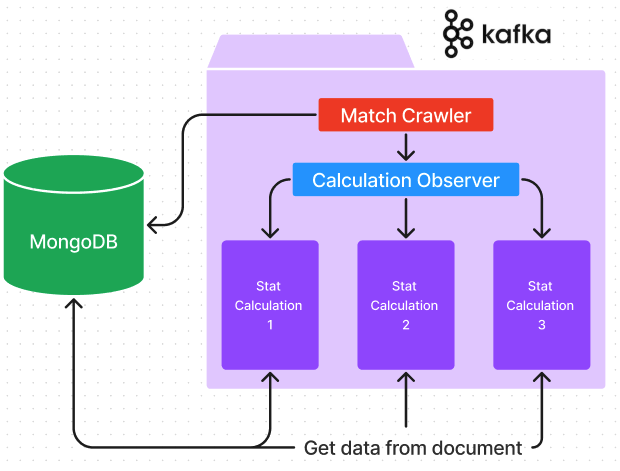
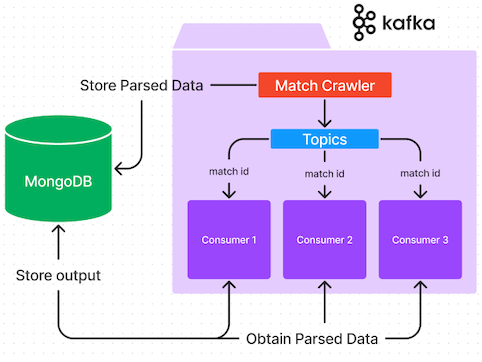
added Backend Post

Changed region(s): [[0.0, 0.0, 0.9959, 0.9724]]

diff --git a/content/blog/code/backend.md b/content/blog/code/backend.md
@@ -1,7 +1,7 @@
 ---
-title: "Backend Construction"
-date: 2023-08-23
-draft: true
+title: "Backend System Design"
+date: 2023-08-29
+draft: false
 github_link: "https://github.com/Halfgear"
 author: "HwiJoon Lee"
 tags:
@@ -9,6 +9,66 @@ tags:
   - Postgresql
   - MongoDB
   - NestJS
-image: /posts/League/valorant.jpeg
+image: /posts/Dev/backend.png
 toc:
 ---
+Building the backend infrastructure for our Valorant data-driven website, I encountered several unique challenges and oppurtunities to grow as a software developer. In this post, I'll outline our current implementations and the ongoing developments for our backend system design. 
+
+## Pipeline with Kafka
+
+In our quest to build an advanced and reliable infrastructure, Kafka became a cornerstone of our design. The integration effectively separates our crawler from our statistical calculation components, aiming for a system that remains robust, especially when it faces potential computational challenges.
+
+![MongoDB](/posts/Dev/MongoStruct.png)
+
+[***Our match crawler system***](https://jooncode.com/blog/code/crawler/) extracts Valorant game data, which undergoes a multiple parsing mechanism to reduce document size. This parsed data is stored in MongoDB. When a match is stored, a Kafka producer dispatches these match details to a designated topics.
+    
+### Data Processing
+![MongoDB](/posts/Dev/dataProcessing.png)
+
+Kafka consumers retrieve match id from the topic and initiate necessary calculations with the parsed data in our database. Some calculations might be straightforward and quick, while others could demand more computation.
+
+### Balancing Workloads
+![MongoDB](/posts/Dev/balance.jpeg)
+
+Kafka's design allows for flexibility in managing computational demands. If a consumer faces a heavier workload, we can easily introduce additional consumers to that consumer group. This adaptive scaling ensures a more evenly distributed processing speed to optimize our system's efficiency. Additionally, we will be able to leverage consumer offsets to check the overall computing progresses. If there's a noticeable gaps in offsets between consumers, they indicate the potential processing bottlenecks to be addressed.
+
+### Parallelism & Scalability
+Kafka, by design, is the best for parallel data processing. This inherent trait ensures both scalability and concurrent processing for us. Even if faced with diverse data computation demands, our system remains agile and responsive.
+
+## API with NestJs
+
+![PSQL.jpg](/posts/Dev/PSQL.png)
+
+Choosing the appropriate framework can greatly influence the trajectory of a project. NestJS offers us a defined set of rules and structure. It streamlines our processes by ensuring there's a consistent pattern we can use across different modules. This foundation becomes invaluable as projects grows, guaranteeing that the architecture remains consistent.
+
+### Studying Entity Relationships
+
+![agentWinrate](/posts/Valorant/agentWinrate.jpeg)
+
+One of the core lessons revolved around constructing relationships for entities. For instance, my task for main page was to present statistics of every Agent at four different positions across all maps on our main page. This demanded a solid understanding about the complex business logic. While building this feature, I learned how to come up with precise entity Columns and relations to create an ideal output for frontend developer and validate APIs with swagger.
+
+![swagger.png](/posts/Dev/swagger.png)
+
+### More NestJS Features
+
+NestJs required me to familiarize myself with features beyond the basics. Specifically, Exception Filters, Interceptors, and Guards came to the fore. Each added functionality and security layers, critical for robust application development. I'll be diving deeper into their specific implications and use-cases in future technical discussions.
+
+## Full Structure
+
+![backendSummary](/posts/Dev/backendSummary.png)
+
+Our backend architecture differentiates between data storage and serving mechanisms, with MongoDB primarily handling unprocessed data storage and PSQL dedicated to serving client requests. To ensure seamless data transition between these systems, we employ regular cron jobs for consistent synchronization from MongoDB to PSQL. This weak coupling not only ensures that clients consistently access the most up-to-date data but also provides the flexibility to scale each component.
+
+## Collaborating Using Postman
+
+During the system's development phase, the need for rapid API prototyping became evident. Postman, with its capabilities for quick API endpoint testing, proved invaluable for iterative development. Recognizing the importance of alignment between frontend and backend development, we introduced a standardized JSON format specifically for the main page. 
+
+![PostmanStruct](/posts/Dev/PostmanStruct.png)
+
+This served as a clear contract for both teams. With such a format in place, frontend developers could simulate data interactions, allowing them to proceed with UI/UX development in parallel with API development. This collaborative approach will accelerate our overall project timeline.
+
+![postmanUsage](/posts/Dev/postmanUsage.png)
+
+## Conclusion
+
+This project has provided me a comprehensive look into the complexities of our backend infrastructure and the nuances of the development. While I spearheaded most development and game research, our CTO's guidance was instrumental in refining our approaches and ensuring we stayed on the right track. I am learning a lot from our team, and I am glad to be able to work with them. I'll be elaboring more useful insights in my later posts soon. Stay tuned for more insights and technical breakdowns!

diff --git a/content/blog/code/crawler.md b/content/blog/code/crawler.md
@@ -1,6 +1,6 @@
 ---
 title: "Building a Match Crawler"
-date: 2023-08-20
+date: 2023-08-09
 draft: false
 github_link: "https://github.com/Halfgear"
 author: "HwiJoon Lee"

diff --git a/content/blog/game/agentParadox.md b/content/blog/game/agentParadox.md
@@ -1,6 +1,6 @@
 ---
 title: "Agent difficulty Paradox"
-date: 2023-08-16
+date: 2023-07-16
 draft: false
 github_link: "https://github.com/Halfgear"
 author: "HwiJoon Lee"

diff --git a/content/blog/game/Introduction.md b/content/blog/game/Introduction.md
@@ -1,6 +1,6 @@
 ---
 title: "Valorant Website Project"
-date: 2023-08-25
+date: 2023-08-15
 draft: false
 author: "HwiJoon Lee"
 tags:

diff --git a/content/blog/game/mainPage.md b/content/blog/game/mainPage.md
@@ -1,6 +1,6 @@
 ---
 title: "Crafting the Main Page"
-date: 2023-08-25
+date: 2023-08-19
 draft: false
 author: "HwiJoon Lee"
 tags:
